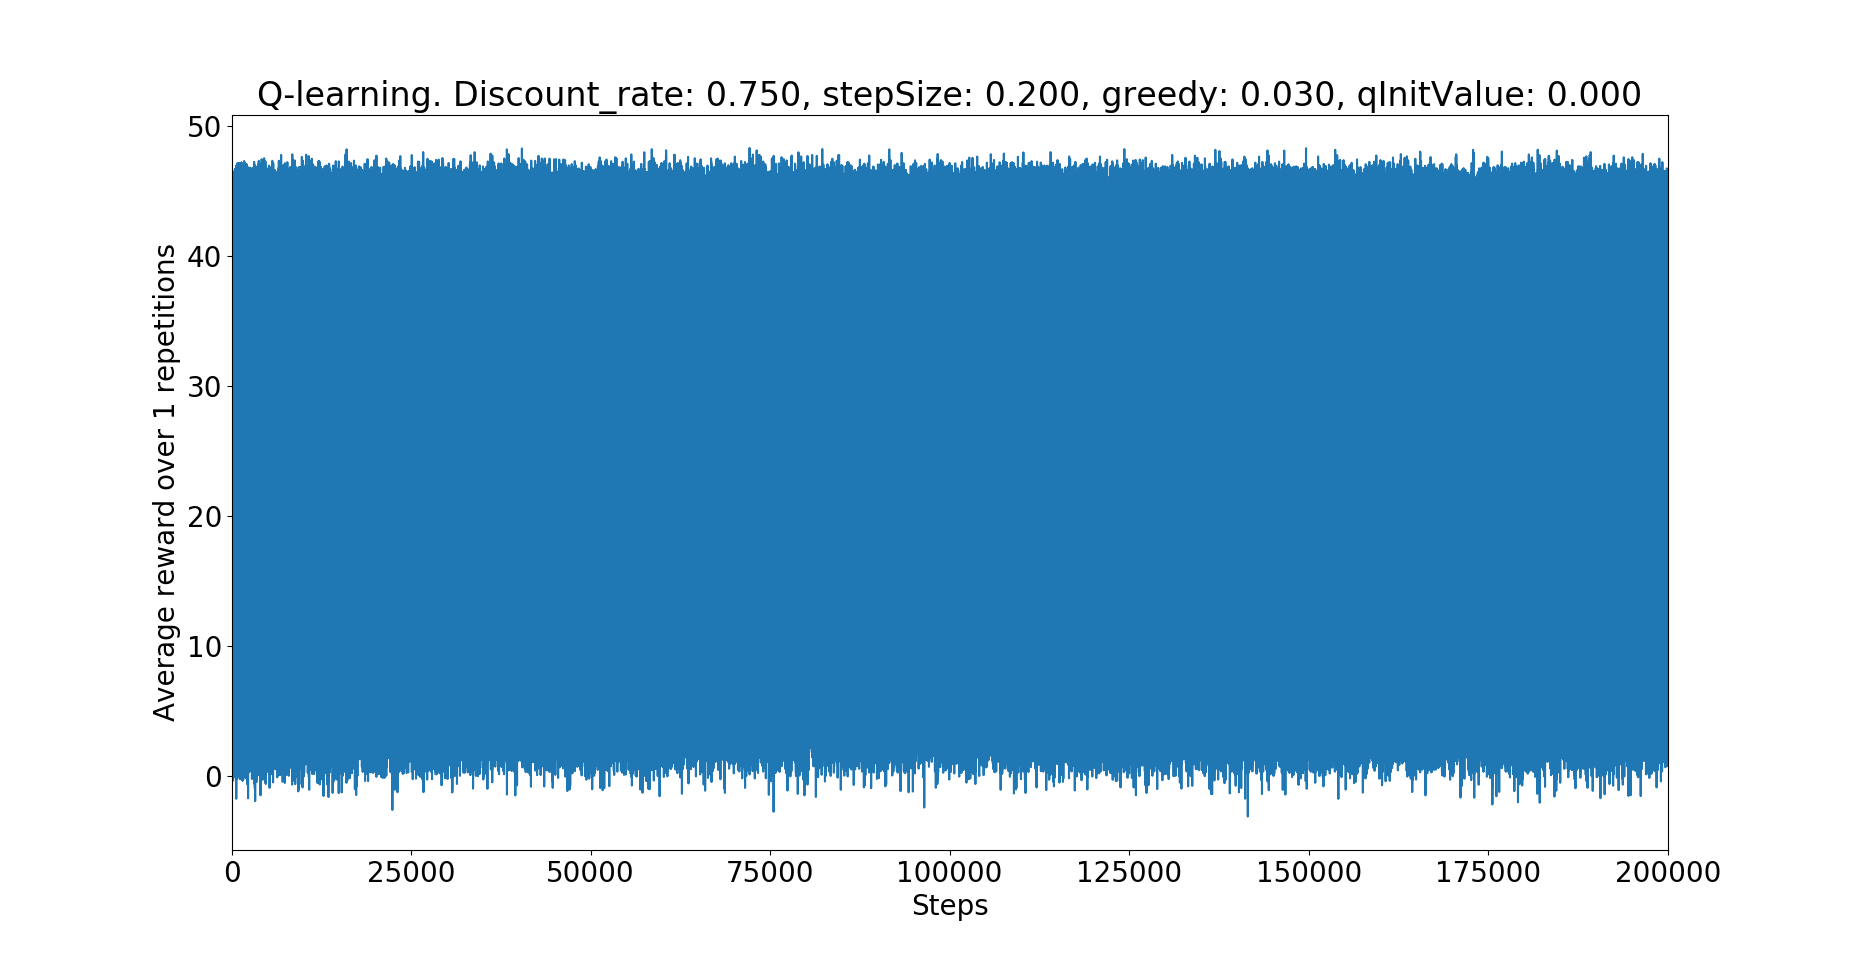
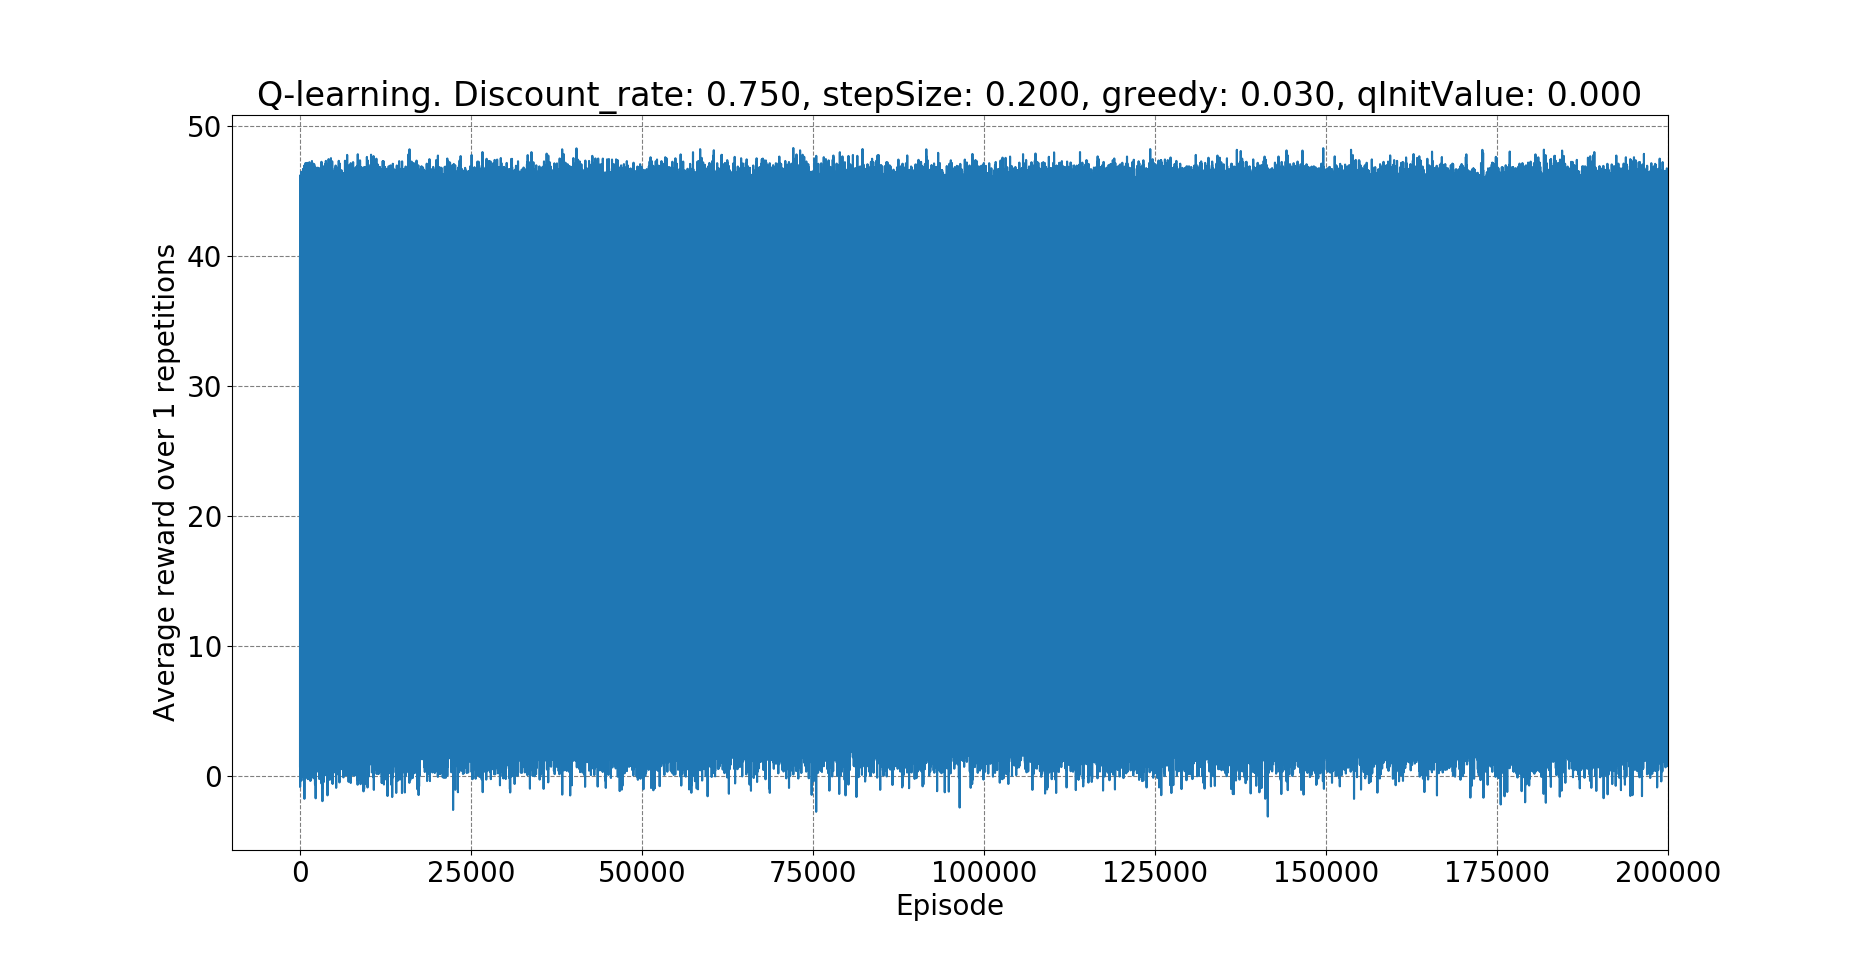
Q test

diff --git a/Tools/plotSTAT.py b/Tools/plotSTAT.py
@@ -1,0 +1,113 @@
+#!/usr/bin/env python3
+# -*- coding: utf-8 -*-
+"""
+Created on Tue Dec 11 12:49:47 2018
+
+@author: simonlbs
+"""
+
+import sys
+import numpy as np
+import matplotlib.pyplot as plt
+import json
+import tkinter as tk
+from tkinter.filedialog import askopenfilename
+root = tk.Tk()
+root.withdraw()
+
+def movingAvg(x,w):
+    return np.convolve(x, np.ones((w,))/w)[(w-1):]
+
+def rooling(l, alfa):
+    tl = [l[0]]
+    for v in l[1:]:
+        tl.append(alfa*v + (1-alfa)*tl[-1])
+    return tl
+
+file = askopenfilename(title = "JSON file")
+if len(file) == 0:
+    sys.exit()
+    
+with open(file) as f:
+    data = json.load(f)
+
+
+
+
+count = 0
+
+alfaRunning = 0.002
+alphaColor = 0.5
+plt.rcParams.update({'font.size': 20})
+
+while True:
+    if "xdata_{}".format(count) in data:
+        ydata = data["ydata_{}".format(count)]
+        ydata = np.array(ydata)
+        y = np.mean(ydata,axis=0)
+        
+        x = data["xdata_{}".format(count)]
+
+        label = data["legend_{}".format(count)]
+        
+        p = plt.plot(x, rooling(y,alfaRunning), label=label)
+        #plt.plot(x, y, color=p[0].get_color(), alpha=alphaColor/2)#, label=data["legend_{}".format(count)]
+        plt.errorbar(x,y,yerr=np.std(ydata, axis=0),errorevery=10000, color=p[0].get_color()+"1F",ecolor=p[0].get_color(),capsize = 5)
+        if "xlabel" in data: plt.xlabel("Episode")
+        if "ylabel" in data: plt.ylabel(data["ylabel"])
+        count+=1
+    else:
+        break
+
+#plt.legend()
+plt.grid(color='grey', linestyle='--')
+plt.title(data["titel"])
+
+plt.show()   
+
+# Plot a line between the means of each dataset
+#plt.plot(x, y, 'b-')
+
+# Save the default tick positions, so we can reset them...
+#locs, labels = plt.xticks() 
+#ydata = np.transpose(ydata)
+#plt.boxplot(ydata, positions=data["xdata_0"])
+
+# Reset the xtick locations.
+#plt.xticks(locs, labels)
+plt.show()
+
+#legend = []
+#plotString = "("
+#count = 0
+#
+#windo = 500
+#alphaColor = 0.5
+#alfaRunning = 0.002
+#plt.rcParams.update({'font.size': 20})
+#while True:
+#    if "xdata_{}".format(count) in data:
+#        if "legend_{}".format(count) in data:    
+#            y_data = data["ydata_{}".format(count)]
+#            y_data = np.mean(y_data, axis=0)
+#            p = plt.plot(data["xdata_{}".format(count)], rooling(y_data,alfaRunning), label=data["legend_{}".format(count)])
+#            #greedy = float(data["legend_{}".format(count)].split()[2])
+#            #plt.plot(data["xdata_{}".format(count)], rooling(data["ydata_{}".format(count)],alfaRunning))#, label="Greedy = "+str(greedy))#, color=p[0].get_color(), alpha=alphaColor)
+#            #plt.plot(data["xdata_{}".format(count)], data["ydata_{}".format(count)], color=p[0].get_color(), alpha=alphaColor/2)#, label=data["legend_{}".format(count)]
+#                
+#        else:
+#            p = plt.plot(data["xdata_{}".format(count)][:-windo], np.convolve(data["ydata_{}".format(count)],windo)[:-windo])
+#            plt.plot(data["xdata_{}".format(count)], data["ydata_{}".format(count)], color=p[0].get_color(), alpha=alphaColor)
+#             
+#        count += 1
+#    else:
+#        break
+#if "xlabel" in data: plt.xlabel("Episode")
+#if "ylabel" in data: plt.ylabel(data["ylabel"])
+##plt.legend(bbox_to_anchor=(1,0.5), loc="best")
+#
+#plt.legend()
+#plt.grid(color='grey', linestyle='--')
+#plt.title(data["titel"])
+#
+#plt.show()

diff --git a/robot_control/QLearning/main.cpp b/robot_control/QLearning/main.cpp
@@ -131,7 +131,7 @@ struct qTestPra
 
 struct data{
     std::vector<int> xdata;
-    std::vector<float> ydata;
+    std::vector<std::vector<float>> ydata;
     qTestPra prameters;
 };
 
@@ -178,9 +178,10 @@ data testQ(QLearning &q, workerParameter &wp, int epsiodes = 2000, int maxStepsI
         wp.mux_count->lock();
         *wp.count = *wp.count+1;
         wp.mux_count->unlock();
+        dataset.ydata = ydata;
     }
     //dataset.ydata = getMovingAvg(getAvg(ydata,1),mvAvgAlfa);
-    dataset.ydata = getAvg(ydata,1);
+    //dataset.ydata = getAvg(ydata,1);
 
     return dataset;
 }
@@ -217,7 +218,7 @@ int main()
     qTestPra ground;
     ground.epsiodes = 200000;
     ground.maxStepsInEpsiode = 5;
-    ground.avgOver = 1000;
+    ground.avgOver = 100;
 
     ground.useDoubelQ = true;
     ground.numberOfQValues = 2;
@@ -225,23 +226,23 @@ int main()
     ground.startState = "S0";
     ground.randomStartState = true;
     ground.discount_rate = 0.75;
-    ground.stepSize = 0.2;
+    ground.stepSize = 0.54;
     ground.greedy = 0.03;
     ground.qInitValue = 0;
 
-    JSONPlot j("Q-learning. Discount_rate: "+fts(ground.discount_rate,3) +", stepSize: "+fts(ground.stepSize,3)+", greedy: "+fts(ground.greedy,3)+", qInitValue: "+fts(ground.qInitValue,3) , "Episode", "Average reward over "+std::to_string(ground.avgOver)+" repetitions");
+    JSONPlot j("Q-learning. Discount_rate: "+fts(ground.discount_rate,3) +", stepSize: "+fts(ground.stepSize,3)+", greedy: "+fts(ground.greedy,3)+", qInitValue: test"+""/*fts(ground.qInitValue,3)*/, "Episode", "Average reward over "+std::to_string(ground.avgOver)+" repetitions");
 
     //std::vector<int> testVar= {1, 2,3,4};
     //0.1 <- 0.001
 
-    const float maxTest = 0.7;
-    const float minTest = 0.3;
-    const int numberOfTests = 10;//Will be +1
+    const float maxTest = 10;
+    const float minTest = 0;
+    const int numberOfTests = 9;//Will be +1
     const float inc = (maxTest-minTest)/numberOfTests;
-    //std::vector<float> testVar;
-    //for(float testV = minTest; testV <= maxTest+inc; testV += inc) testVar.push_back(testV);
+    std::vector<float> testVar;
+    for(float testV = minTest; testV <= maxTest+inc; testV += inc) testVar.push_back(testV);
 
-    std::vector<float> testVar= {0.03};
+    //std::vector<float> testVar= {0.03};
 
     std::queue<data> dataqueue;
     std::mutex mux_dataqueue;
@@ -250,7 +251,7 @@ int main()
 
     for(unsigned int i = 0; i < testVar.size(); i++){
         qTestPra test = ground;
-        test.greedy = testVar.at(i);
+        test.qInitValue = testVar.at(i);
 
         qqueue.push(test);
     }
@@ -287,7 +288,7 @@ int main()
         data dt = dataqueue.front();
         dataqueue.pop();
 
-        j.addData(/*"Step size: "+std::to_string(dt.prameters.stepSize)*/"",dt.xdata,dt.ydata);//fts(dt.prameters.greedy,5),dt.xdata,dt.ydata);
+        j.addData("qInitValue: "+std::to_string(dt.prameters.qInitValue),dt.xdata,dt.ydata);//fts(dt.prameters.greedy,5),dt.xdata,dt.ydata);
     }
     j.write();
 

diff --git a/Tools/plotQGrafJSON.py b/Tools/plotQGrafJSON.py
@@ -41,11 +41,13 @@ alfaRunning = 0.002
 plt.rcParams.update({'font.size': 20})
 while True:
     if "xdata_{}".format(count) in data:
-        if "legend_{}".format(count) in data:            
-            p = plt.plot(data["xdata_{}".format(count)], rooling(data["ydata_{}".format(count)],alfaRunning))#, label=data["legend_{}".format(count)]+" - EMA ")
+        if "legend_{}".format(count) in data:    
+            y_data = data["ydata_{}".format(count)]
+            y_data = np.mean(y_data, axis=0)
+            p = plt.plot(data["xdata_{}".format(count)], rooling(y_data,alfaRunning), label=data["legend_{}".format(count)])
             #greedy = float(data["legend_{}".format(count)].split()[2])
             #plt.plot(data["xdata_{}".format(count)], rooling(data["ydata_{}".format(count)],alfaRunning))#, label="Greedy = "+str(greedy))#, color=p[0].get_color(), alpha=alphaColor)
-            plt.plot(data["xdata_{}".format(count)], data["ydata_{}".format(count)], color=p[0].get_color(), alpha=alphaColor/2)#, label=data["legend_{}".format(count)]
+            #plt.plot(data["xdata_{}".format(count)], data["ydata_{}".format(count)], color=p[0].get_color(), alpha=alphaColor/2)#, label=data["legend_{}".format(count)]
                 
         else:
             p = plt.plot(data["xdata_{}".format(count)][:-windo], np.convolve(data["ydata_{}".format(count)],windo)[:-windo])
@@ -54,11 +56,12 @@ while True:
         count += 1
     else:
         break
-if "xlabel" in data: plt.xlabel("Steps")
+if "xlabel" in data: plt.xlabel("Episode")
 if "ylabel" in data: plt.ylabel(data["ylabel"])
 #plt.legend(bbox_to_anchor=(1,0.5), loc="best")
 
-#plt.legend()
+plt.legend()
+plt.grid(color='grey', linestyle='--')
 plt.title(data["titel"])
 
 plt.show()

diff --git a/Tools/plotQGrafJSONGreedy.py b/Tools/plotQGrafJSONGreedy.py
@@ -38,14 +38,14 @@ count = 0
 
 windo = 500
 alphaColor = 0.5
-alfaRunning = 0.002
+
 ydata = []
 xdata = []
 while True:
     if "xdata_{}".format(count) in data:
         if "legend_{}".format(count) in data:      
             print(data["legend_{}".format(count)])
-            greedy = float(data["legend_{}".format(count)].split()[2])
+            greedy = float(data["legend_{}".format(count)].split()[1])
             xdata.append(greedy)
             tempData = np.array(data["ydata_{}".format(count)])
             tempData = sum(tempData)/len(tempData)
@@ -67,14 +67,16 @@ ydataTemp = []
 for x in xdata:
     ydataTemp.append(ydata[mapTemp[x]])
 ydata = ydataTemp
-#ydata = rooling(ydata,0.35)
+alfaRunning = 1#0.35
+ydata = rooling(ydata,alfaRunning)
 
 plt.xlabel(r"$\epsilon$")
-plt.ylabel("Average reward over the first 200000 steps")
+plt.ylabel("Average reward over the first 200000 episodes")
 plt.plot(xdata,ydata)
-plt.legend(bbox_to_anchor=(1,0.5), loc="center left")
+#plt.legend(bbox_to_anchor=(1,0.5), loc="center left")
 plt.rcParams.update({'font.size': 20})
 #plt.legend()
+plt.grid(color='grey', linestyle='--')
 plt.title(data["titel"])
 
 plt.show()

diff --git a/robot_control/QLearning/json.cpp b/robot_control/QLearning/json.cpp
@@ -35,6 +35,29 @@ void Json::add(std::string name, std::vector<float> value)
     jsonValue val(name, valueString);
     addJsonValue(val);
 }
+
+void Json::add(std::string name, std::vector<std::vector<float>> value)
+{
+    std::string valueString = "[ ";
+
+    for (unsigned int i = 0; i < value.size(); i++) {
+
+        std::string valueString2 = "[ ";
+
+        for (unsigned int j = 0; j < value.at(i).size()-1; j++) {
+            valueString2 += std::to_string(value.at(i).at(j)) + ", ";
+        }
+        valueString2 += std::to_string(value.at(i).back()) + " ]";
+
+        if(i < value.size()-1) valueString += valueString2 + ", ";
+        else valueString += valueString2 + " ]";
+    }
+
+
+    jsonValue val(name, valueString);
+    addJsonValue(val);
+}
+
 void Json::add(std::string name, std::vector<int> value)
 {
     std::string valueString = "[ ";

diff --git a/robot_control/QLearning/jsonplot.cpp b/robot_control/QLearning/jsonplot.cpp
@@ -34,6 +34,14 @@ void JSONPlot::addData(std::string legend, std::vector<int> xdata, std::vector<f
     count++;
 }
 
+void JSONPlot::addData(std::string legend, std::vector<int> xdata, std::vector<std::vector<float>> ydata)
+{
+    j.add("legend_" + std::to_string(count), legend);
+    j.add("xdata_" + std::to_string(count), xdata);
+    j.add("ydata_" + std::to_string(count), ydata);
+    count++;
+}
+
 JSONPlot::~JSONPlot()
 {
 }

diff --git a/robot_control/QLearning/json.h b/robot_control/QLearning/json.h
@@ -15,6 +15,7 @@ public:
 
     void add(std::string name, std::string value);
     void add(std::string name, std::vector<float> value);
+    void add(std::string name, std::vector<std::vector<float>> value);
     void add(std::string name, std::vector<int> value);
     void add(std::string name, std::vector<std::string> value);
     void add(std::string name, int value);

diff --git a/robot_control/QLearning/jsonplot.h b/robot_control/QLearning/jsonplot.h
@@ -19,6 +19,7 @@ public:
 
     void addData(std::string legend, std::vector<float> xdata, std::vector<float> ydata);
     void addData(std::string legend, std::vector<int> xdata, std::vector<float> ydata);
+    void addData(std::string legend, std::vector<int> xdata, std::vector<std::vector<float>> ydata);
     void write(std::string filename = " ");
     ~JSONPlot();
 };
